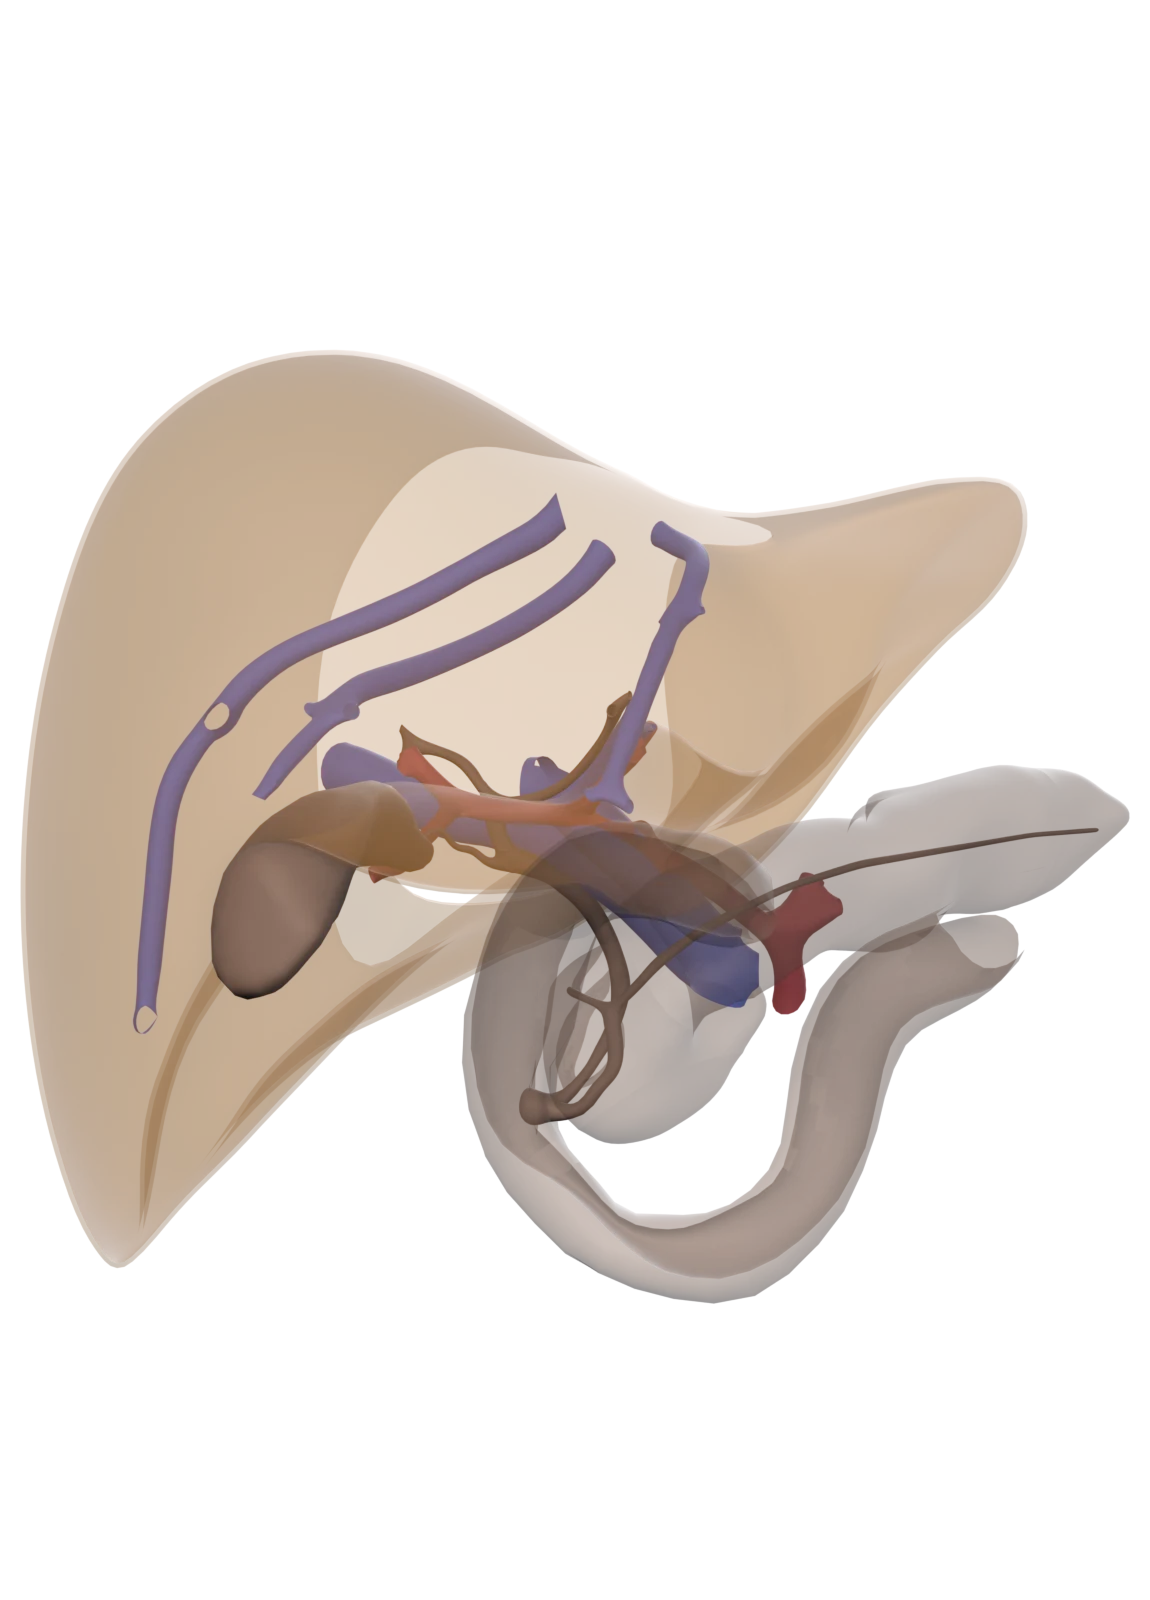
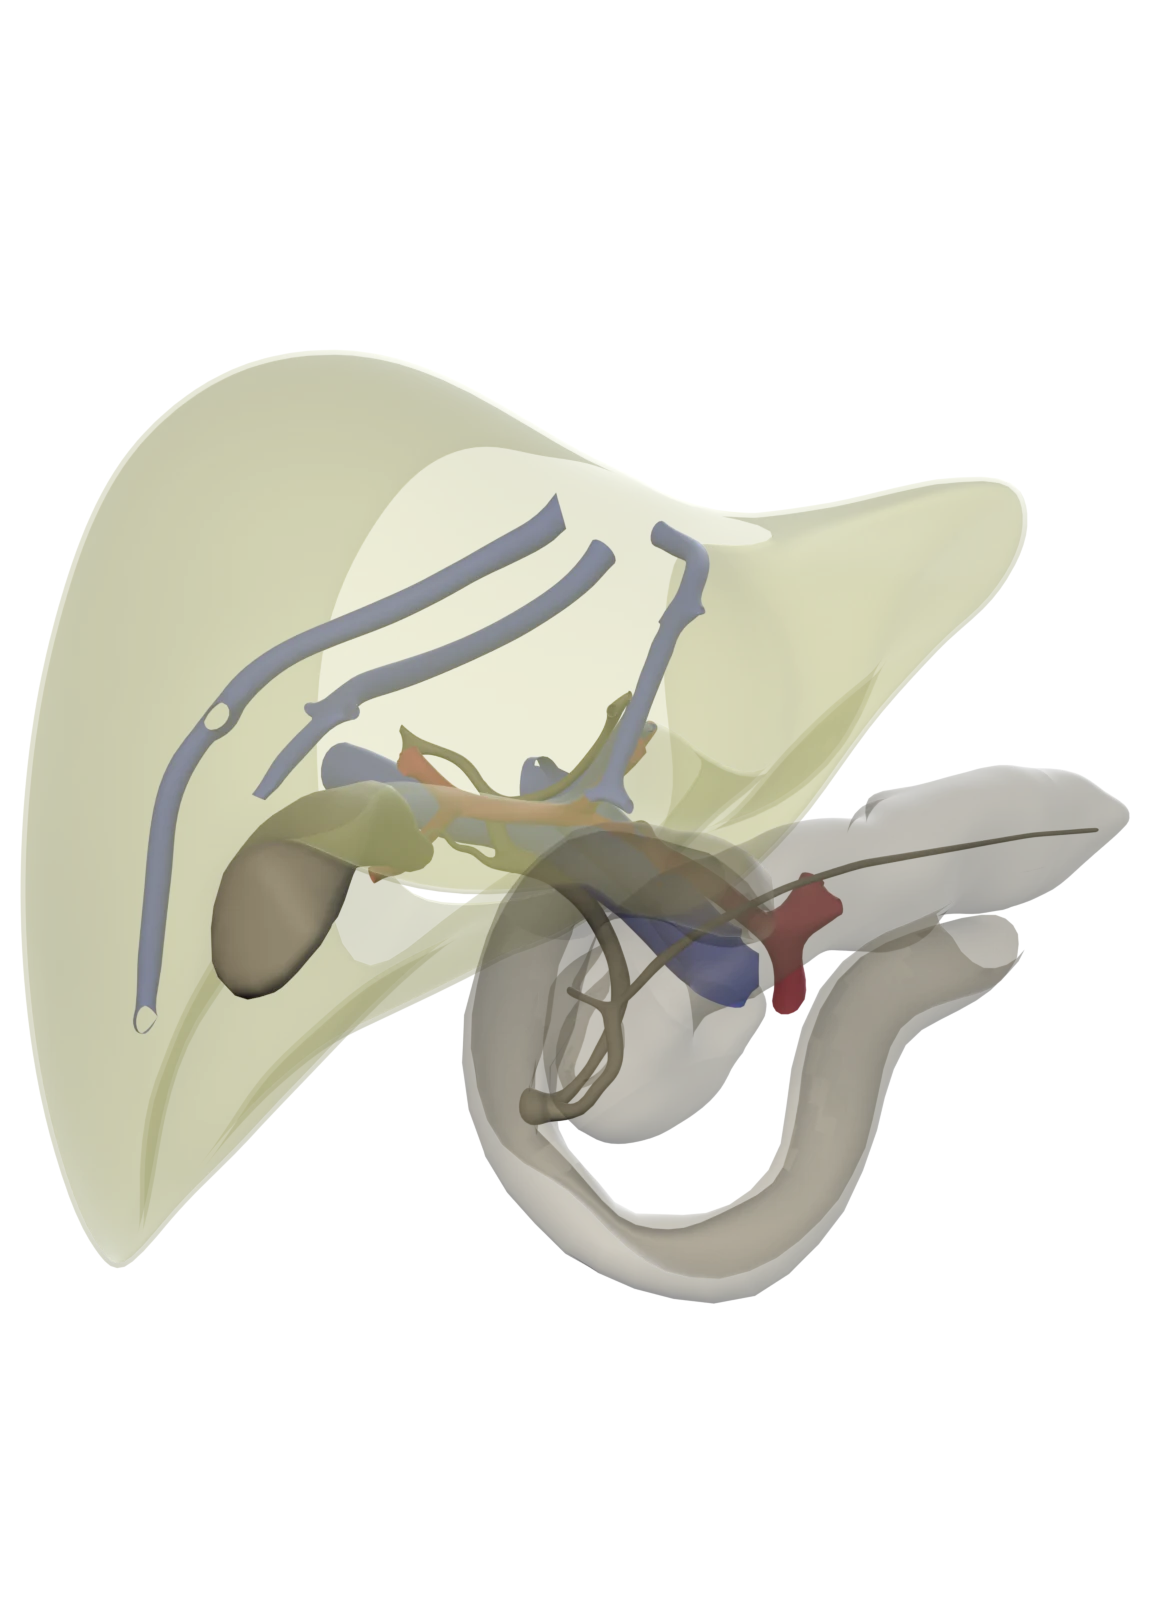
feat(atlas): plansza pokarmowa K2 - rendery na bibliotece po scaleniu atlas-uklady (paleta #B4B474, vessel_path z biblioteki)

Changed region(s): [[0.0, 0.2188, 0.913, 0.7812]]

diff --git a/blender/atlas/plate_pokarmowy.py b/blender/atlas/plate_pokarmowy.py
@@ -271,23 +271,10 @@ p = hv + [q for q in ivc_top if q.z > hv[-1].z + 0.003]
 add_flow("hepatic_out", "vein", "Krew z wątroby do serca (żż. wątrobowe → ż. główna dolna)", p, ["front"],
          ["Hepatic veins (od ujścia w wątrobie) + Inferior vena cava (thoracic part) powyżej ujścia"])
 # Tętnice: aorta (w dół, od przepony) -> pień trzewny -> t. wątrobowa wspólna -> właściwa (do wątroby).
-# vessel_path zaczyna aortę od złego końca (gałąź odchodzi w połowie aorty), więc odcinek aorty budujemy sami:
-# od góry do punktu odejścia gałęzi.
-def aorta_down_to(branch):
-    a = sorted(al.curve_points("Abdominal aorta"), key=lambda q: -q.z)
-    b0 = al.curve_points(branch)
-    origin = min(b0, key=lambda q: min((q - x).length for x in a))
-    seg = [q for q in a if q.z > origin.z + 0.002]
-    tail, rep = al.vessel_path([branch] + BRANCH_CHAIN.get(branch, []))
-    if (tail[0] - origin).length > (tail[-1] - origin).length:
-        tail = tail[::-1]
-    return seg + tail, rep
-
-
-BRANCH_CHAIN = {"Coeliac trunk": ["Common hepatic artery", "Proper hepatic artery"]}
-p, rep = aorta_down_to("Coeliac trunk")
+# Od scalenia atlas-uklady al.vessel_path sam zaczyna aortę od końca bliższego sercu (wcześniej obejście lokalne).
+p, rep = al.vessel_path(["Abdominal aorta", "Coeliac trunk", "Common hepatic artery", "Proper hepatic artery"])
 add_flow("artery_liver", "artery", "Krew tętnicza do wątroby (pień trzewny → t. wątrobowa)", p, ["front"], rep)
-p, rep = aorta_down_to("Superior mesenteric artery")
+p, rep = al.vessel_path(["Abdominal aorta", "Superior mesenteric artery"])
 add_flow("artery_gut", "artery", "Krew tętnicza do jelit (t. krezkowa górna)", p, ["front"], rep)
 
 
